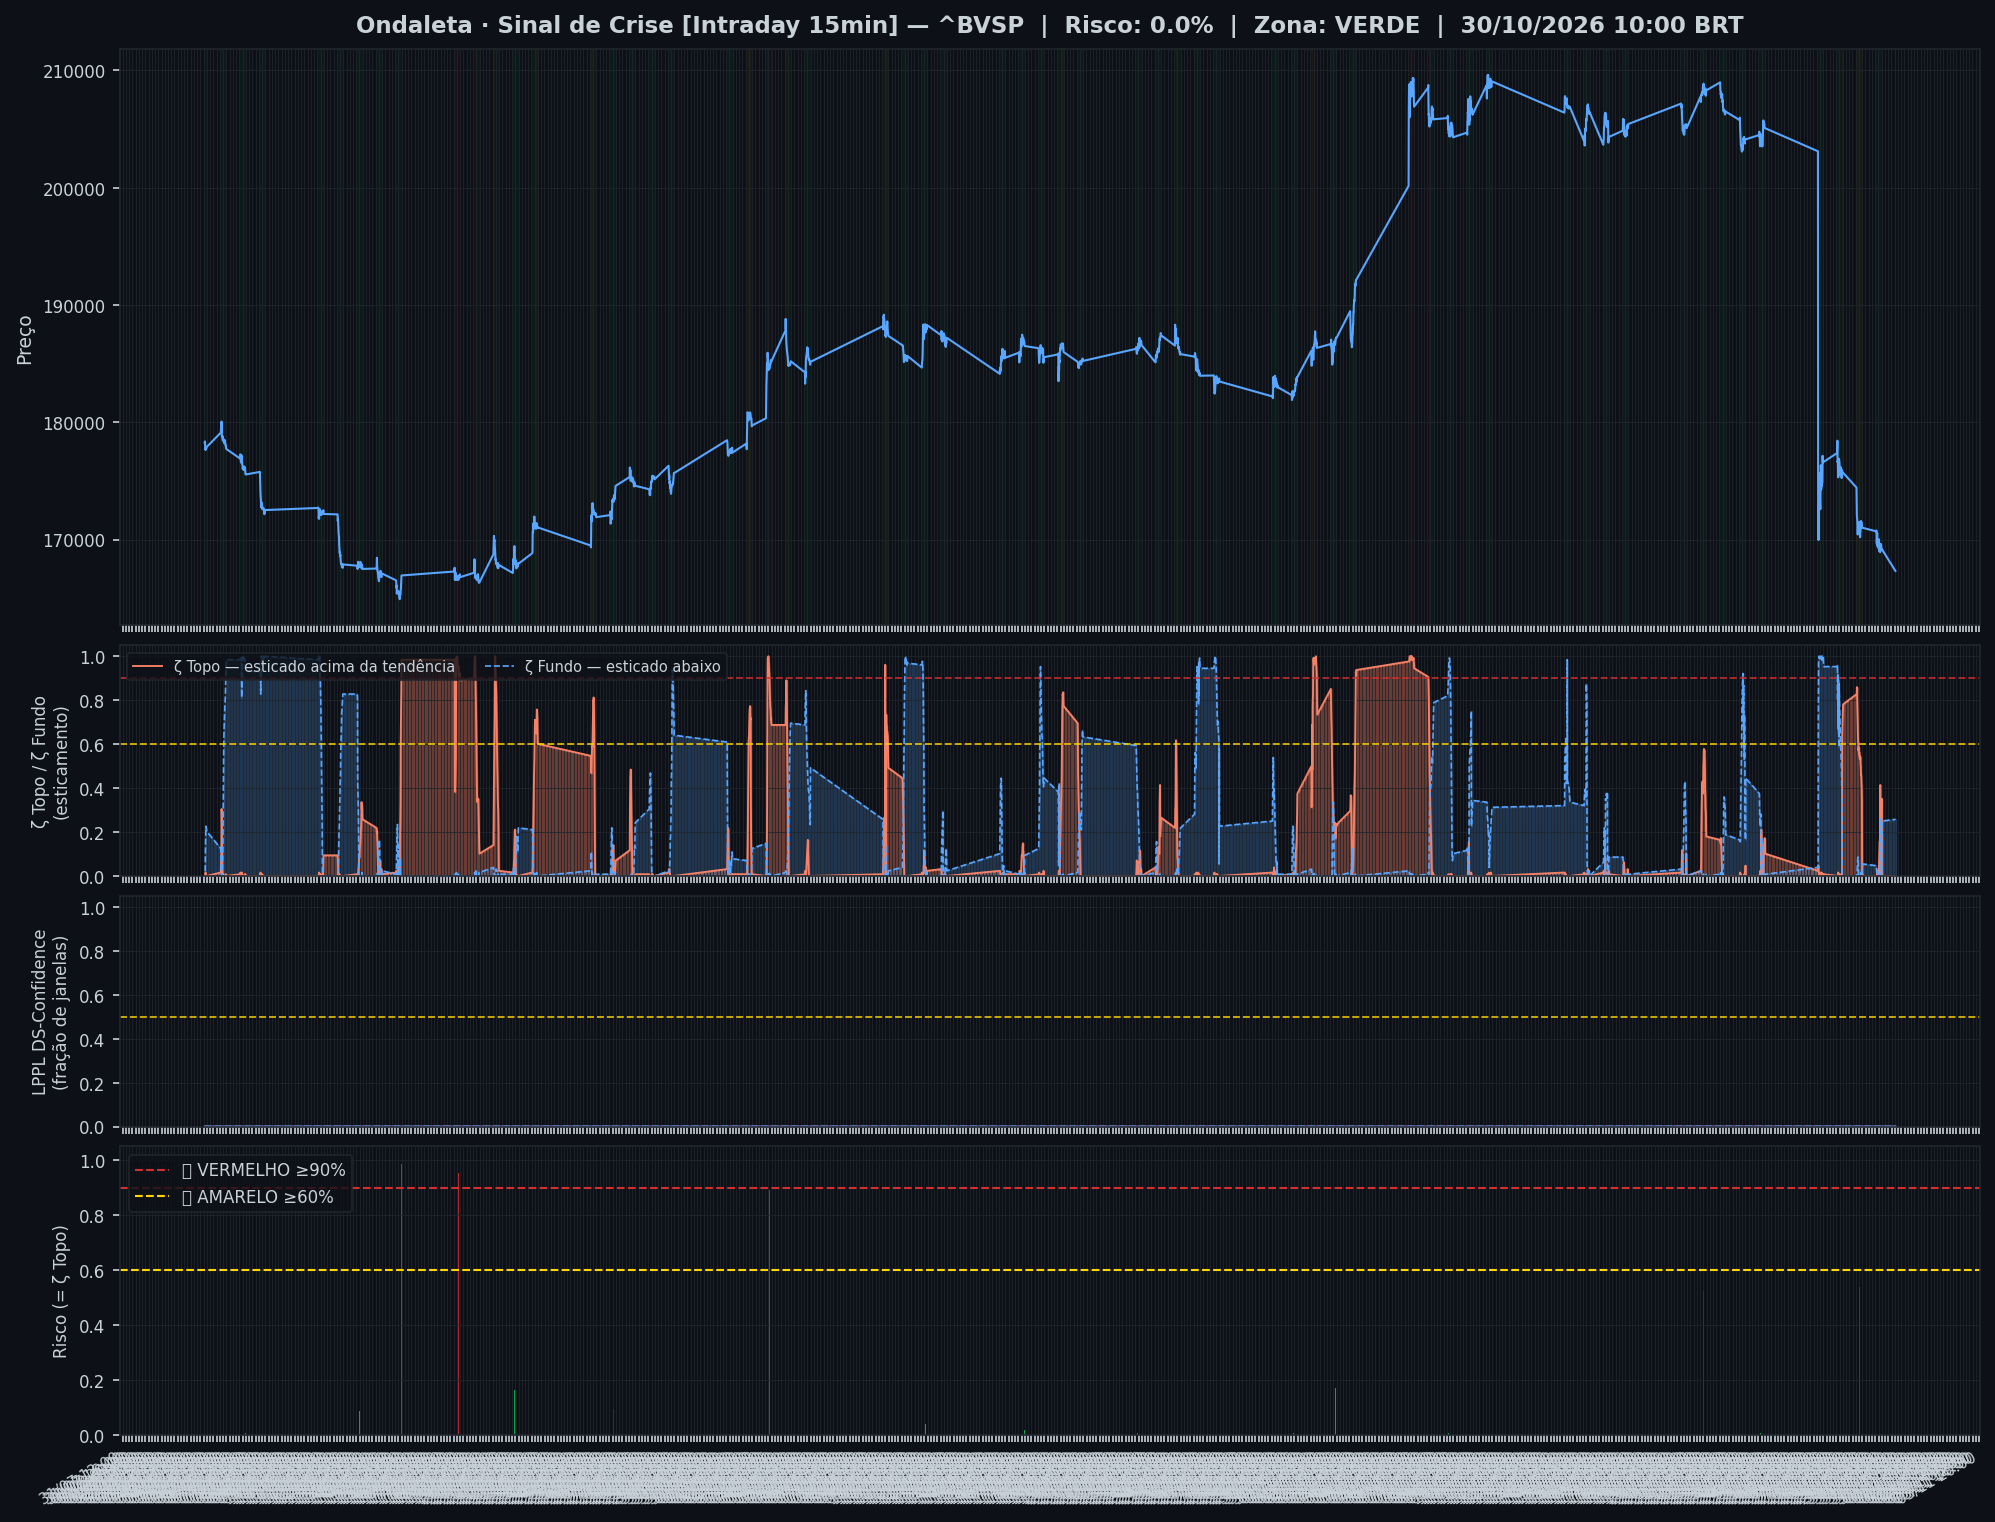
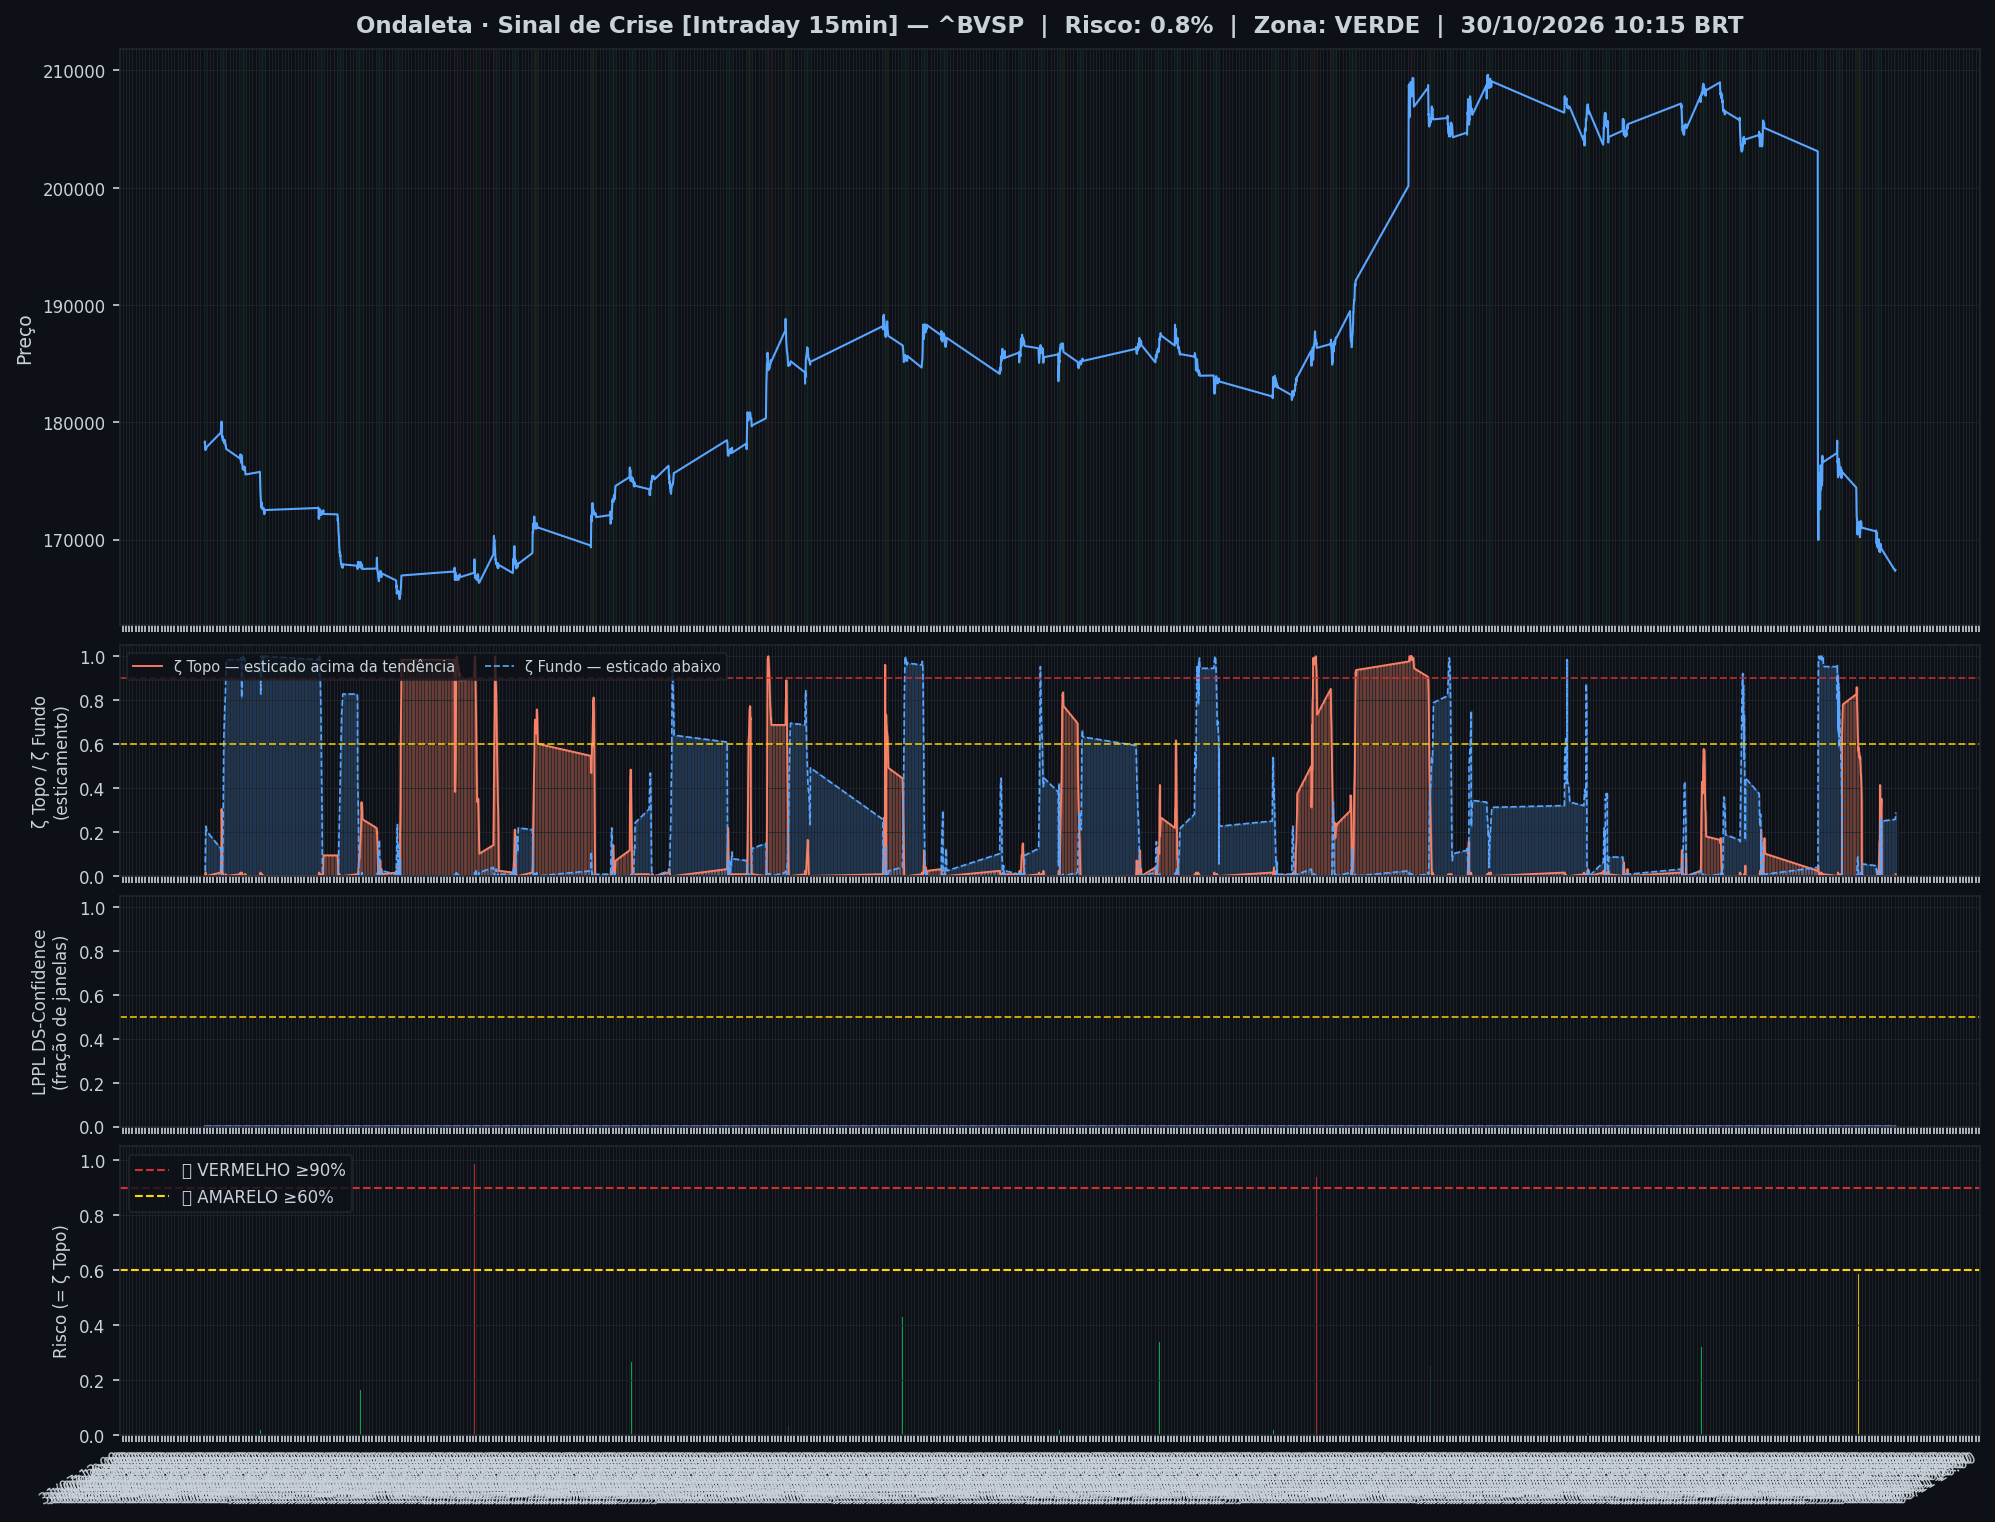
🤖 Auto: Sinal 30/10/2026 10:30

diff --git a/content/intraday/2026-10-30.md b/content/intraday/2026-10-30.md
@@ -1,10 +1,10 @@
 ---
-title: "🟢 Intraday 30/10/2026 10:00 BRT — VERDE"
+title: "🟢 Intraday 30/10/2026 10:15 BRT — VERDE"
 date: 2026-10-30
 tags: [intraday]
 ---
 
-> [!success] Onde o mercado está agora (30/10 10:00, candles de 15 min): **🟢 Calmo**
+> [!success] Onde o mercado está agora (30/10 10:15, candles de 15 min): **🟢 Calmo**
 > `Pânico ◀───────●─────────────▶ Euforia`
 >
 > O Ibovespa está dentro da sua faixa normal, sem excesso para cima nem para baixo.
@@ -20,7 +20,7 @@ tags: [intraday]
 > | 📍 **Sinais** | hoje: nenhum sinal | [abrir](sinais-topo-fundo/) |
 > | 🧪 **Placar ao vivo** | 1 operação(ões), 0 com lucro, soma -0,8% | [abrir](operacoes/) |
 
-> [!success] Sinal de Crise · Intraday 15 min (30/10 10:00): 🟢 **VERDE** — Risco 0% · ＝ +0 p.p. vs leitura anterior
+> [!success] Sinal de Crise · Intraday 15 min (30/10 10:15): 🟢 **VERDE** — Risco 1% · ▲ +1 p.p. vs leitura anterior
 > `░░░░░░░░░░░░░░░░░░░░`
 > Preço na faixa normal em torno da tendência.
 
@@ -32,13 +32,13 @@ tags: [intraday]
 >
 > *Leitura educacional baseada em 26 anos de dados, não recomendação. [Como usar](../metodologia/crise#3-como-usar-na-prática).*
 
-| Indicador — Sinal de Crise · Intraday 15 min (30/10 10:00) | Valor |
+| Indicador — Sinal de Crise · Intraday 15 min (30/10 10:15) | Valor |
 |---|---|
-| 🔴 ζ Topo — preço esticado acima da tendência | **0%** |
-| 🔵 ζ Fundo — preço esticado abaixo da tendência | 26% |
+| 🔴 ζ Topo — preço esticado acima da tendência | **1%** |
+| 🔵 ζ Fundo — preço esticado abaixo da tendência | 29% |
 | 🫧 LPPL bolha — alta super-exponencial (risco de crash) | 0% |
 | 🫧 LPPL antibolha — queda super-exponencial (risco de repique) | 0% |
-| 📊 Ibovespa | 167.319 pts |
+| 📊 Ibovespa | 167.410 pts |
 
 ![Gráfico do sinal](../graficos/sinal_intraday.png)
 
@@ -46,6 +46,7 @@ tags: [intraday]
 
 | Data | Zona | Evento | Risco | ζ Topo | ζ Fundo | LPPL |
 |---|---|---|---|---|---|---|
+| 2026-10-30 10:15 | 🟢 VERDE |  | **1%** | 1% | 29% | 0% |
 | 2026-10-30 10:00 | 🟢 VERDE |  | **0%** | 0% | 26% | 0% |
 | 2026-10-29 17:15 | 🟢 VERDE |  | **0%** | 0% | 25% | 0% |
 | 2026-10-29 17:00 | 🟢 VERDE |  | **35%** | 35% | 0% | 0% |
@@ -75,51 +76,50 @@ tags: [intraday]
 | 2026-10-29 11:00 | 🟢 VERDE |  | **0%** | 0% | 2% | 0% |
 | 2026-10-29 10:45 | 🟢 VERDE |  | **0%** | 0% | 2% | 0% |
 | 2026-10-29 10:30 | 🟢 VERDE |  | **0%** | 0% | 3% | 0% |
-| 2026-10-29 10:15 | 🟢 VERDE |  | **0%** | 0% | 3% | 0% |
 
 <small>Destaques: 🟡 ≥ 60% · 🔴 ≥ 90% (Risco e ζ Topo) · 🔵 ≥ 60% · 🔪 ≥ 90% (ζ Fundo) · 🫧 ≥ 30% · 🫧🔴 ≥ 50% (LPPL)</small>
 
 ## Monitor Multi-Ativo
 
-**8% dos ativos em tensão** (0🔴 2🟡) · **1 com ζ Fundo alto** — quanto mais ativos disparam juntos, mais confiável o sinal.
+**4% dos ativos em tensão** (0🔴 2🟡) · **2 com ζ Fundo alto** — quanto mais ativos disparam juntos, mais confiável o sinal.
 
 > [!warning] Em destaque no multi-ativo
-> 🟡 **SUZANO S.A.** ζ Topo 74% · 🔵 **REDE D OR** ζ Fundo 66% · 🟡 **GERDAU** ζ Topo 61%
+> 🟡 **SUZANO S.A.** ζ Topo 71% · 🔵 **REDE D OR** ζ Fundo 66% · 🔵 **VIBRA** ζ Fundo 65%
 
 | Zona | Ativo | Setor | ζ Topo | ζ Fundo |
 |---|---|---|---|---|
-| 🟡 | **SUZANO S.A.** | Papel/Celulose | 🟡 **74.2%** | 1.6% |
+| 🟡 | **SUZANO S.A.** | Papel/Celulose | 🟡 **71.1%** | 3.1% |
 | 🟢 | **REDE D OR** | Saúde | 1.6% | 🔵 **65.6%** |
-| 🟡 | **GERDAU** | Siderurgia | 🟡 **60.9%** | 0.8% |
-| 🟢 | **VIBRA** | Energia | 0.8% | 54.7% |
-| 🟢 | **AMBEV S/A** | Consumo | 0.8% | 53.1% |
-| 🟢 | **ULTRAPAR** | Outros | 0.8% | 51.6% |
-| 🟢 | **LOCALIZA** | Aluguel | 0.0% | 51.6% |
-| 🟢 | **BRADESCO** | Financeiro | 0.0% | 47.7% |
-| 🟢 | **B3** | Financeiro | 1.6% | 47.7% |
-| 🟢 | **BTGP BANCO** | Financeiro | 0.8% | 44.5% |
-| 🟢 | **EQUATORIAL** | Energia | 0.8% | 39.8% |
-| 🟢 | **BRASIL** | Financeiro | 0.0% | 38.3% |
-| 🟢 | **ENEVA** | Energia | 0.8% | 36.7% |
-| 🟢 | **ITAUUNIBANCO** | Financeiro | 0.8% | 31.2% |
-| 🟢 | **WEG** | Industrial | 28.1% | 0.8% |
-| 🟢 | **AXIA ENERGIA** | Energia | 2.3% | 25.0% |
-| 🟢 | **ITAUSA** | Financeiro | 1.6% | 21.1% |
-| 🟢 | **BBSEGURIDADE** | Financeiro | 18.0% | 0.0% |
-| 🟢 | **PRIO** | Petróleo | 9.4% | 17.2% |
-| 🟢 | **PETROBRAS** | Petróleo | 0.8% | 11.7% |
-| 🟢 | **USD/BRL** | Câmbio | 3.9% | 10.9% |
-| 🟢 | **COPEL** | Energia | 3.1% | 10.2% |
-| 🟢 | **PETROBRAS** | Petróleo | 0.0% | 9.4% |
-| 🟢 | **VALE** | Mineração | 7.0% | 3.9% |
-| 🟢 | **EMBRAER** | Outros | 4.7% | 0.0% |
-| 🟢 | **SABESP** | Saneamento | 2.3% | 2.3% |
+| 🟢 | **VIBRA** | Energia | 1.6% | 🔵 **64.8%** |
+| 🟢 | **ULTRAPAR** | Outros | 0.8% | 58.6% |
+| 🟡 | **GERDAU** | Siderurgia | 57.0% | 0.8% |
+| 🟢 | **AMBEV S/A** | Consumo | 1.6% | 53.9% |
+| 🟢 | **LOCALIZA** | Aluguel | 1.6% | 53.1% |
+| 🟢 | **BRADESCO** | Financeiro | 1.6% | 49.2% |
+| 🟢 | **B3** | Financeiro | 1.6% | 48.4% |
+| 🟢 | **BTGP BANCO** | Financeiro | 1.6% | 44.5% |
+| 🟢 | **BRASIL** | Financeiro | 1.6% | 40.6% |
+| 🟢 | **EQUATORIAL** | Energia | 1.6% | 39.1% |
+| 🟢 | **ENEVA** | Energia | 1.6% | 37.5% |
+| 🟢 | **ITAUUNIBANCO** | Financeiro | 1.6% | 33.6% |
+| 🟢 | **AXIA ENERGIA** | Energia | 2.3% | 28.1% |
+| 🟢 | **ITAUSA** | Financeiro | 2.3% | 24.2% |
+| 🟢 | **PRIO** | Petróleo | 21.1% | 11.7% |
+| 🟢 | **COPEL** | Energia | 2.3% | 20.3% |
+| 🟢 | **WEG** | Industrial | 14.1% | 2.3% |
+| 🟢 | **BBSEGURIDADE** | Financeiro | 10.2% | 0.0% |
+| 🟢 | **PETROBRAS** | Petróleo | 3.1% | 8.6% |
+| 🟢 | **USD/BRL** | Câmbio | 4.7% | 6.2% |
+| 🟢 | **VALE** | Mineração | 4.7% | 2.3% |
+| 🟢 | **SABESP** | Saneamento | 2.3% | 4.7% |
+| 🟢 | **PETROBRAS** | Petróleo | 1.6% | 3.9% |
+| 🟢 | **EMBRAER** | Outros | 3.9% | 1.6% |
 
 <small>Destaques: 🟡 ≥ 60% · 🔴 ≥ 90% (Risco e ζ Topo) · 🔵 ≥ 60% · 🔪 ≥ 90% (ζ Fundo) · 🫧 ≥ 30% · 🫧🔴 ≥ 50% (LPPL)</small>
 
 ![Monitor multi-ativo](../graficos/multi_intraday.png)
 
-*Página atualizada em 30/10/2026 10:15 BRT (leitura da barra de 2026-10-30 10:00 BRT).*
+*Página atualizada em 30/10/2026 10:30 BRT (leitura da barra de 2026-10-30 10:15 BRT).*
 
 > [!info]- Como interpretar (clique para expandir)
 > - **ζ Topo**: fração dos coeficientes wavelet (Chapéu Mexicano, Caetano & Yoneyama 2009) acima de +0,8σ na faixa mais recente. Na ponta da série isso acontece quando o preço termina **esticado acima da tendência** em muitas escalas — euforia/topo. ζ=0,90 é o limiar de Caetano: quedas que partiram desse padrão foram mais fundas. **É risco de reversão, não data do crash.**

diff --git a/content/index.md b/content/index.md
@@ -6,9 +6,9 @@ tags: [home]
 
 **As ondas do mercado, explicadas.** Leitura do Ibovespa com estatística de 26 anos, baseada no trabalho de pesquisadores e traders reconhecidos e adaptada por Jarbas Daniel da Costa.
 
-*Última atualização: 30/10/2026 10:15 BRT · Intraday 15min*
+*Última atualização: 30/10/2026 10:30 BRT · Intraday 15min*
 
-> [!success] Onde o mercado está agora (30/10 10:00, candles de 15 min): **🟢 Calmo**
+> [!success] Onde o mercado está agora (30/10 10:15, candles de 15 min): **🟢 Calmo**
 > `Pânico ◀───────●─────────────▶ Euforia`
 >
 > O Ibovespa está dentro da sua faixa normal, sem excesso para cima nem para baixo.
@@ -20,7 +20,7 @@ tags: [home]
 
 | Módulo | Agora | |
 |---|---|---|
-| 🌊 **Sinal de Crise** | 🟢 VERDE · 🟢 calmo · ζ Topo 0% | [relatório](intraday/2026-10-30) |
+| 🌊 **Sinal de Crise** | 🟢 VERDE · 🟢 calmo · ζ Topo 1% | [relatório](intraday/2026-10-30) |
 | 📈 **Tendência MME9** | Diário — fora<br>Semanal 🟢 comprado desde 31/08 (-4,1%) | [abrir](operacoes/tendencia) |
 | 🎯 **Entradas do método** | ⏳ aguardando: Diário · Nadaraya, H4 · Semáforo N2 | [abrir](operacoes/entradas) |
 | 📍 **Sinais** | hoje: nenhum sinal | [abrir](sinais-topo-fundo/) |
@@ -50,26 +50,26 @@ tags: [home]
 > *Leitura educacional baseada em 26 anos de dados, não recomendação. [Como usar](metodologia/crise#3-como-usar-na-prática).*
 
 > [!info]- 🌊 Detalhes do Sinal de Crise (indicadores e últimos 7 pregões)
-> > [!success] Sinal de Crise · Intraday 15 min (30/10 10:00): 🟢 **VERDE** — Risco 0% · ＝ +0 p.p. vs leitura anterior
+> > [!success] Sinal de Crise · Intraday 15 min (30/10 10:15): 🟢 **VERDE** — Risco 1% · ▲ +1 p.p. vs leitura anterior
 > > `░░░░░░░░░░░░░░░░░░░░`
 > > Preço na faixa normal em torno da tendência.
 >
 >
-> | Indicador — Sinal de Crise · Intraday 15 min (30/10 10:00) | Valor |
+> | Indicador — Sinal de Crise · Intraday 15 min (30/10 10:15) | Valor |
 > |---|---|
-> | 🔴 ζ Topo — preço esticado acima da tendência | **0%** |
-> | 🔵 ζ Fundo — preço esticado abaixo da tendência | 26% |
+> | 🔴 ζ Topo — preço esticado acima da tendência | **1%** |
+> | 🔵 ζ Fundo — preço esticado abaixo da tendência | 29% |
 > | 🫧 LPPL bolha — alta super-exponencial (risco de crash) | 0% |
 > | 🫧 LPPL antibolha — queda super-exponencial (risco de repique) | 0% |
-> | 📊 Ibovespa | 167.319 pts |
+> | 📊 Ibovespa | 167.410 pts |
 >
-> **Multi-ativo:** 8% em tensão (0🔴 2🟡 de 26 ativos)
+> **Multi-ativo:** 4% em tensão (0🔴 2🟡 de 26 ativos)
 >
 > **Últimos 7 pregões**
 >
 > | Data | Zona | Risco | ζ Topo | ζ Fundo | LPPL |
 > |---|---|---|---|---|---|
-> | [30/10/2026](intraday/2026-10-30) | 🟢 VERDE | **0%** | 0% | 26% | 0% |
+> | [30/10/2026](intraday/2026-10-30) | 🟢 VERDE | **1%** | 1% | 29% | 0% |
 > | [29/10/2026](intraday/2026-10-29) | 🟢 VERDE | **0%** | 0% | 25% | 0% |
 >
 > <small>Destaques: 🟡 ≥ 60% · 🔴 ≥ 90% (Risco e ζ Topo) · 🔵 ≥ 60% · 🔪 ≥ 90% (ζ Fundo) · 🫧 ≥ 30% · 🫧🔴 ≥ 50% (LPPL)</small>

diff --git a/content/operacoes/ranking.md b/content/operacoes/ranking.md
@@ -5,7 +5,7 @@ tags: [operacoes]
 description: "As regras de compra do site ordenadas pelo resultado, com treino, teste e placar ao vivo"
 ---
 
-*Atualizado 30/10/2026 10:15 · histórico simulado com as regras congeladas em 23/10/2026 + placar ao vivo.*
+*Atualizado 30/10/2026 10:30 · histórico simulado com as regras congeladas em 23/10/2026 + placar ao vivo.*
 
 As regras de compra do site, **da que mais rendeu para a que menos rendeu**. O resultado é por operação, no índice à vista, sem custos e sem juros compostos (a soma é só a soma das operações). **Treino** = entradas de 2001 a 2013 e **teste** = 2014 em diante: uma regra só é confiável se ganhou nos dois. O único resultado sem nenhum ajuste ao histórico é o **placar ao vivo**.
 

diff --git a/content/linha-do-tempo/index.md b/content/linha-do-tempo/index.md
@@ -5,7 +5,7 @@ description: "Todo sinal, ordem, stop e aviso da Ondaleta, do mais recente para 
 tags: [eventos]
 ---
 
-*Atualizada 30/10/2026 10:15 BRT · a cada 15 min no pregão e às 19h.*
+*Atualizada 30/10/2026 10:30 BRT · a cada 15 min no pregão e às 19h.*
 
 Tudo o que o sistema fez ou detectou, **do mais recente para o mais antigo**: sinais de topo e fundo, ordens de compra e de venda armadas, compras, vendas, stops, avisos de 🚨 preço perto do nível e mudanças da Crise. Os **últimos 7 dias** ficam abertos; o resto, por **ano → mês → dia**.
 

diff --git a/content/historico.md b/content/historico.md
@@ -7,6 +7,7 @@ tags: [historico]
 
 | Data | Modo | Zona | Risco | IMA | LPPL |
 |---|---|---|---|---|---|
+| 2026-10-30 10:15 | intraday | 🟢 VERDE | 1% | 1% | 0% |
 | 2026-10-30 10:00 | intraday | 🟢 VERDE | 0% | 0% | 0% |
 | 2026-10-29 | diario | 🟢 VERDE | 4% | 4% | 0% |
 | 2026-10-29 17:15 | intraday | 🟢 VERDE | 0% | 0% | 0% |
